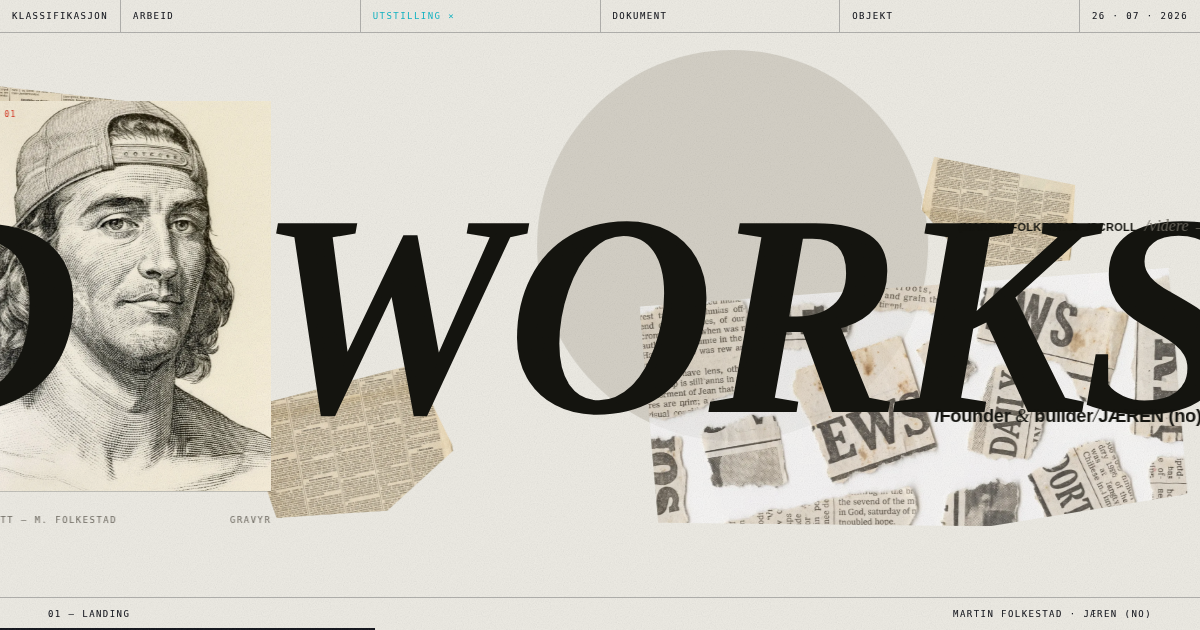
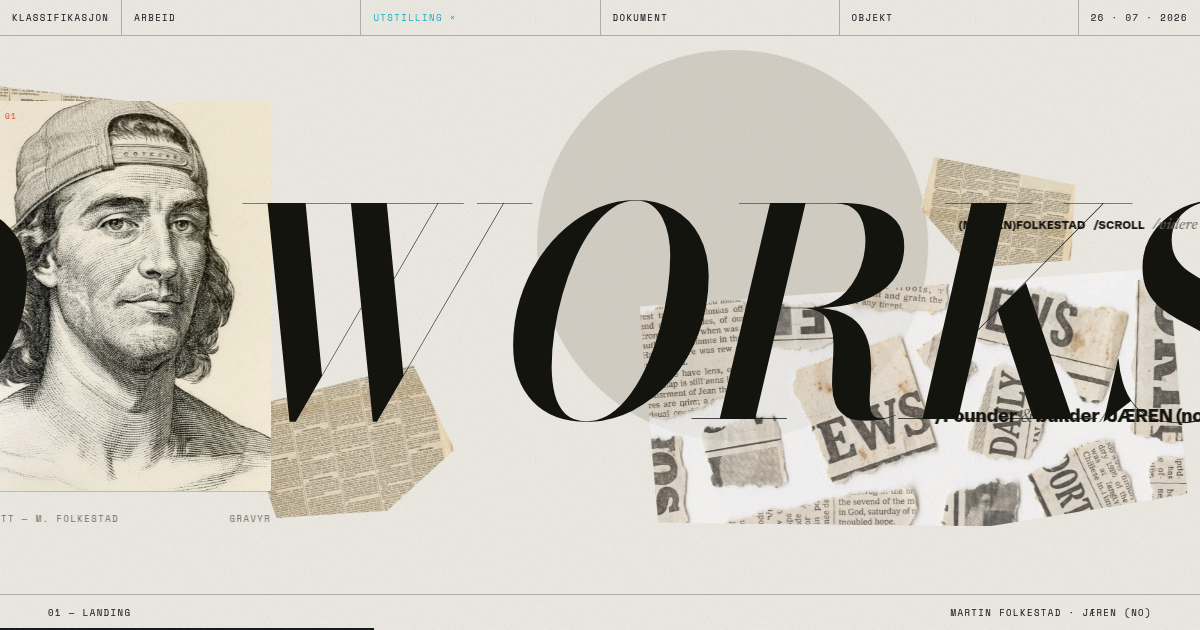
Fix intro lede reveal: clear parsed px y-offset so yPercent owns the mask reveal; refresh og image with loaded webfonts
Claude-Session: https://claude.ai/code/session_01GbM39mZoVPsmWRm8UWuxpC

diff --git a/folkestad-portfolio/src/anim/reveals.js b/folkestad-portfolio/src/anim/reveals.js
@@ -42,7 +42,9 @@ export function initReveals({ reduced }) {
     if (!inners.length) return;
     gsap.fromTo(
       inners,
-      { yPercent: 115 },
+      // y:0 clears the px offset GSAP parses out of the CSS
+      // translateY(115%) pre-hide; yPercent then owns the reveal.
+      { yPercent: 115, y: 0 },
       {
         yPercent: 0,
         duration: 0.9,
